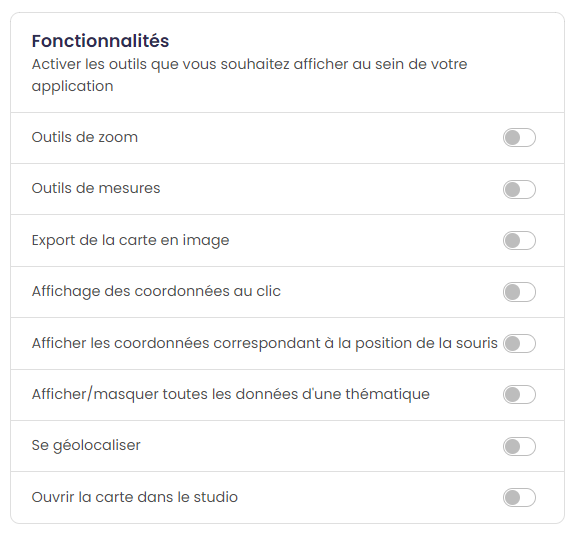
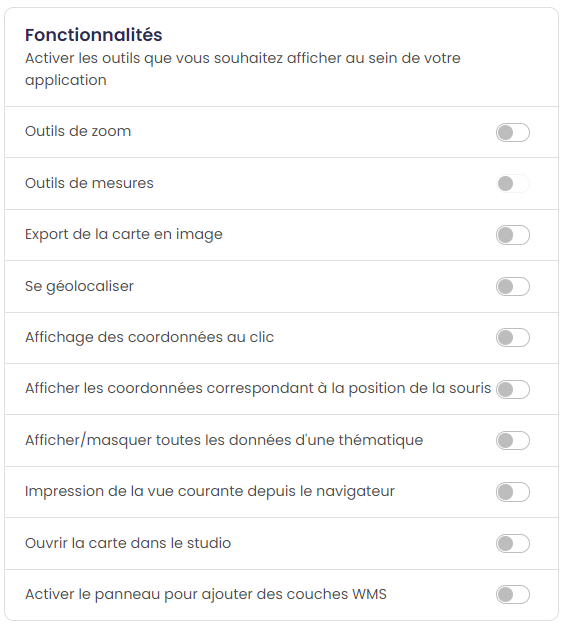
ajout doc 2 options

diff --git a/docs/doc_user/param_appli.rst b/docs/doc_user/param_appli.rst
@@ -39,7 +39,9 @@ Activer les outils que vous souhaitez afficher au sein de votre application :
 * :guilabel:`mode avancé` ``Affichage des coordonnées au clic`` : cette option permet d'afficher dans le bandeau en haut les coordonnées du point cliqué.
 * :guilabel:`mode avancé` ``Afficher les coordonnées correspondant à la position de la souris`` : cette option permet d'afficher les coordonnées correspondant à la position de la souris en bas à droite de la carte .
 * :guilabel:`mode avancé` ``Afficher/masquer toutes les données d'une thématique`` : active la possibilité d'afficher toutes les données d'un thème en un clic.
+* :guilabel:`mode avancé` ``Impression de la vue courante depuis le navigateur`` : active la possibilité d’imprimer la vue courante depuis le navigateur.
 * :guilabel:`mode avancé` ``Ouvrir la carte dans le studio`` : active la possibilité d'ouvrir la carte en cours au sein d'un mviewerstudio pour édition.
+* :guilabel:`mode avancé` ``Activer le panneau pour ajouter des couches WMS`` : active la possibilité d'ajouter des couche WMS à la carte.
 
 Options de la carte
 -------------------------------------------
